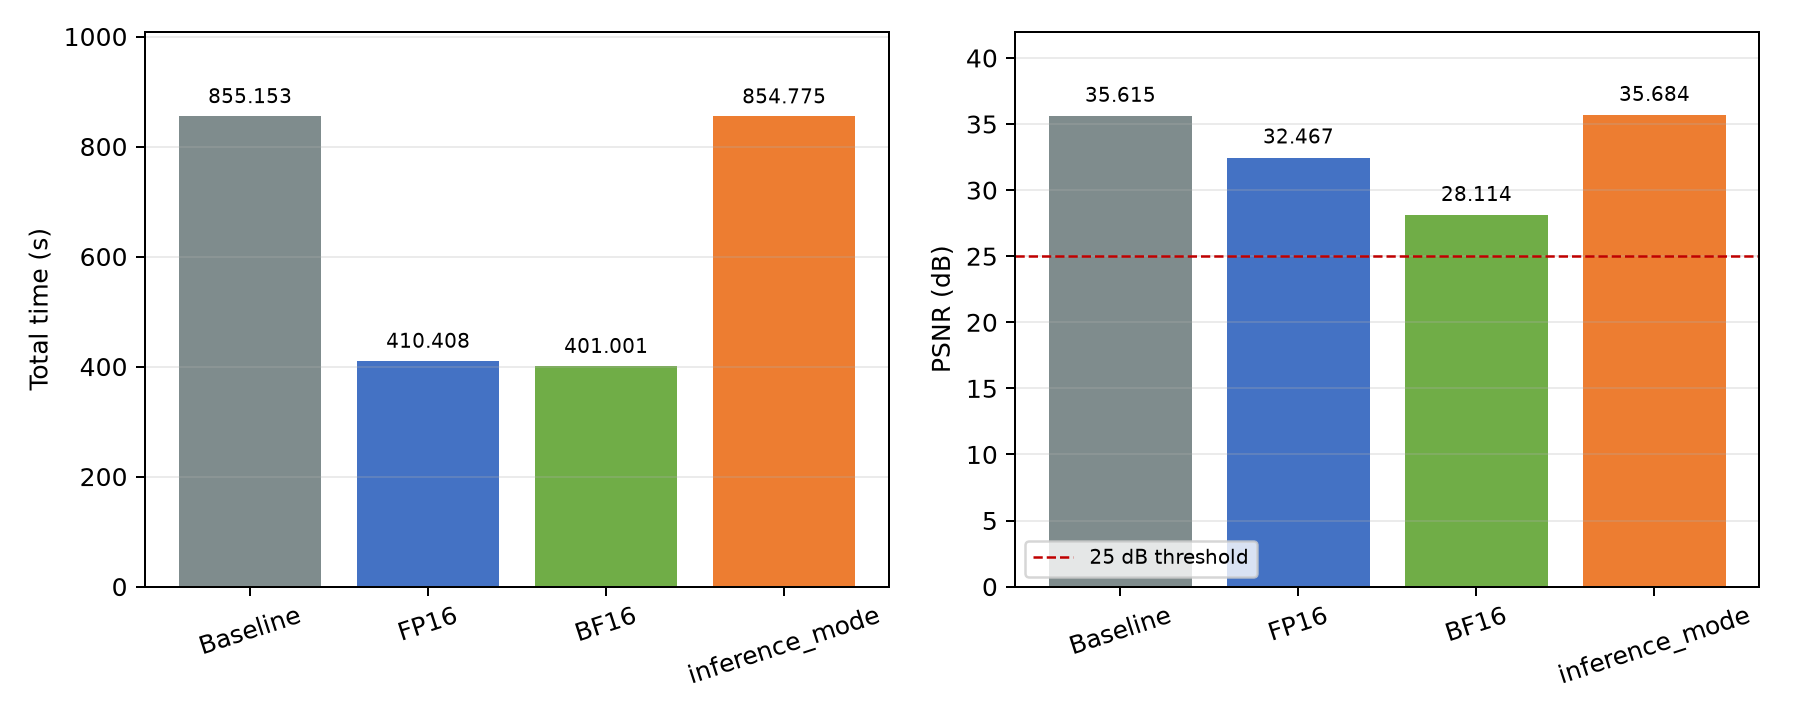
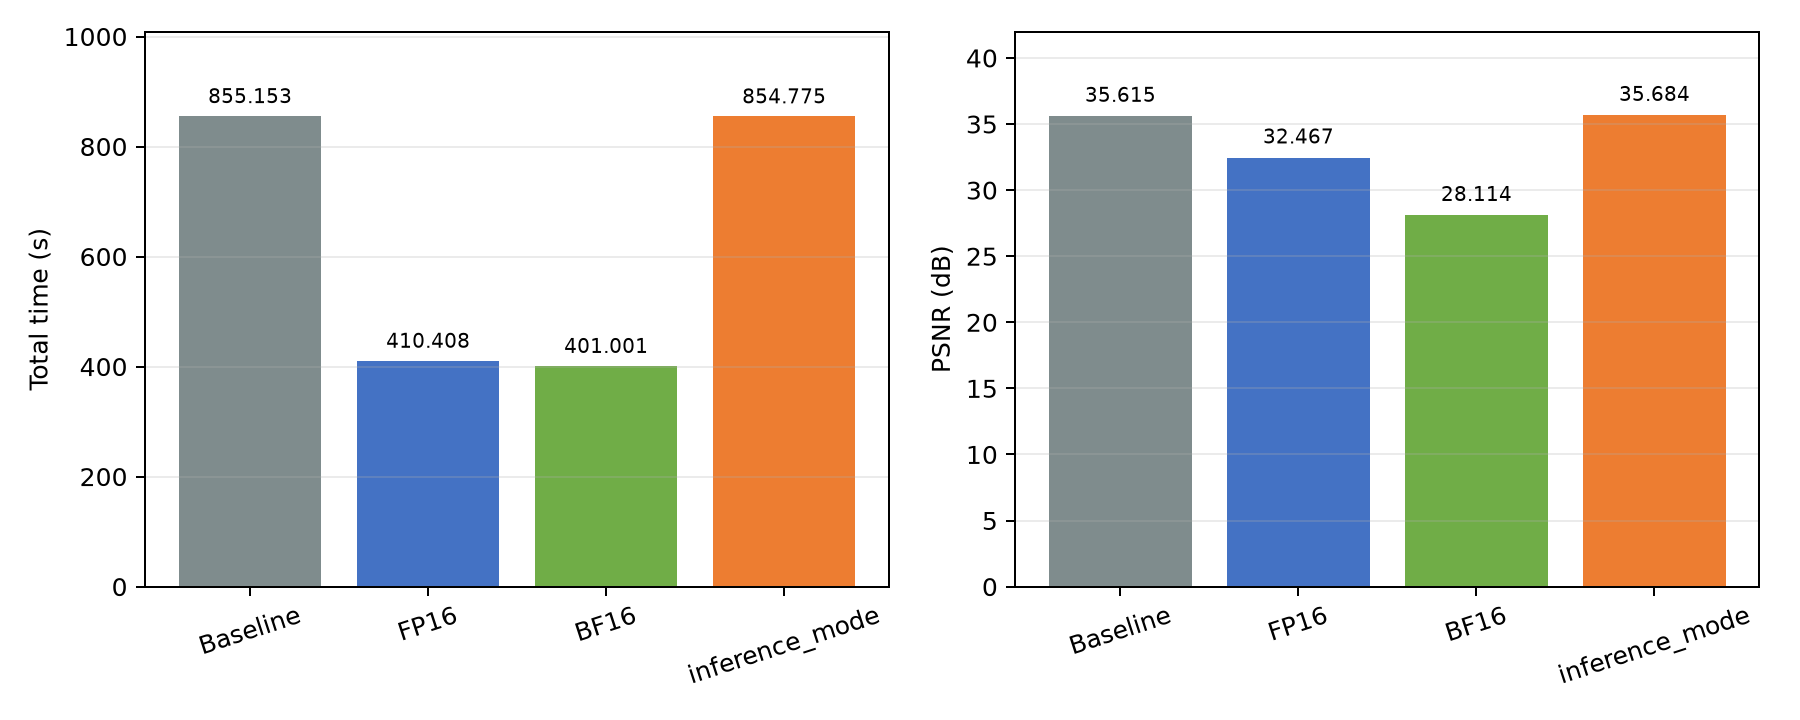
Align final selection result presentation

diff --git a/README.md b/README.md
@@ -10,14 +10,14 @@
 
 - 赛题仓库：<https://github.com/ASC-Competition/ASC26-Embodied-World-Model-Optimization>
 - 项目仓库：<https://github.com/unitreerobotics/unifolm-world-model-action>
-- 项目提交：`3e198de68de55f93f24b3ad623dd499390aaee45`
+- 代码提交号：`3e198de68de55f93f24b3ad623dd499390aaee45`
 - 场景与 Case：`unitree_g1_pack_camera/case1`
 
 | 项目 | 内容 |
 | --- | --- |
-| 机器来源 | 自备付费云服务器（AutoDL） |
+| 机器来源 | 自备服务器（AutoDL，付费） |
 | 操作系统 | Ubuntu 22.04.1 LTS |
-| CPU | Intel Xeon Gold 6348，分配 14 vCPU |
+| CPU | Intel Xeon Gold 6348（14 vCPU） |
 | 内存 | 120 GiB |
 | GPU | NVIDIA A800 80GB PCIe |
 | Python | 3.10.18 |
@@ -55,7 +55,7 @@ WMA_INFERENCE_MODE=1 \
 bash scripts/run_case1_experiment.sh inference_mode_a800_20260824_01
 ```
 
-优化参数由 `patches/wma_optimizations.patch` 增加。补丁可以在项目提交 `3e198de...` 上直接应用：
+优化参数由 `patches/wma_optimizations.patch` 增加。补丁可以在代码提交号 `3e198de...` 上直接应用：
 
 ```bash
 git apply patches/wma_optimizations.patch
@@ -76,7 +76,7 @@ Baseline 完整计时为 855.153 s。`tqdm` 记录的 11 轮主循环约为 771.
 
 ![WMA 时间和 PSNR 对比](figures/wma_results.png)
 
-FP16 和 BF16 都明显降低了完整运行时间。本次记录中 BF16 的总时间最短，PSNR 仍高于 25 dB，但它比 FP16 多损失约 4.35 dB。`torch.inference_mode()` 只快了 0.378 s，变化约 0.04%，不能认为有实际加速。项目内部本来已经在多个推理函数中使用 `torch.no_grad()`，因此进一步关闭自动求导记录没有改变主要计算量。
+FP16 和 BF16 都明显降低了完整运行时间。本次记录中 BF16 的总时间最短，但它比 FP16 多损失约 4.35 dB。`torch.inference_mode()` 只快了 0.378 s，变化约 0.04%，不能认为有实际加速。项目内部本来已经在多个推理函数中使用 `torch.no_grad()`，因此进一步关闭自动求导记录没有改变主要计算量。
 
 如果同时考虑输出质量，FP16 的速度与质量更均衡。
 
@@ -84,7 +84,7 @@ FP16 和 BF16 都明显降低了完整运行时间。本次记录中 BF16 的总
 
 四次实验的输入和权重哈希一致，程序都正常完成 11 轮并生成 H.264、512×320、8 FPS、176 帧、22 秒的视频。PSNR 使用同一个 `psnr_score_for_challenge.py` 计算，评价方式没有修改。
 
-Baseline 和 FP16 在 8 月 13 日运行，BF16 和 `inference_mode()` 在 8 月 24 日使用相同磁盘镜像重新创建的服务器上运行。GPU 型号、Python、PyTorch、CUDA、代码提交和输入哈希相同；GPU 驱动分别为 590.48.01 和 595.71.05。每组只完整运行一次，所以不根据 BF16 与 FP16 的小幅时间差判断两种精度本身的性能高低。
+Baseline 和 FP16 在 8 月 13 日运行，BF16 和 `inference_mode()` 在 8 月 24 日使用相同磁盘镜像重新创建的服务器上运行。GPU 型号、Python、PyTorch、PyTorch CUDA 版本、代码提交和输入哈希相同；GPU 驱动分别为 590.48.01 和 595.71.05。每组只完整运行一次，所以不根据 BF16 与 FP16 的小幅时间差判断两种精度本身的性能高低。
 
 ## 文件说明
 
